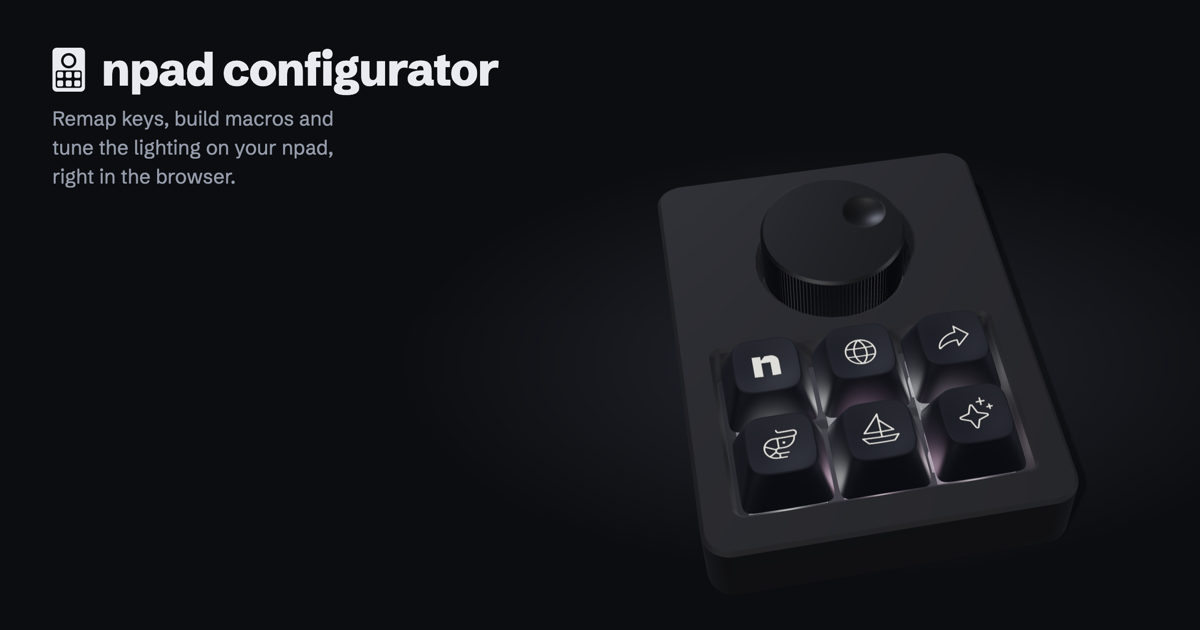
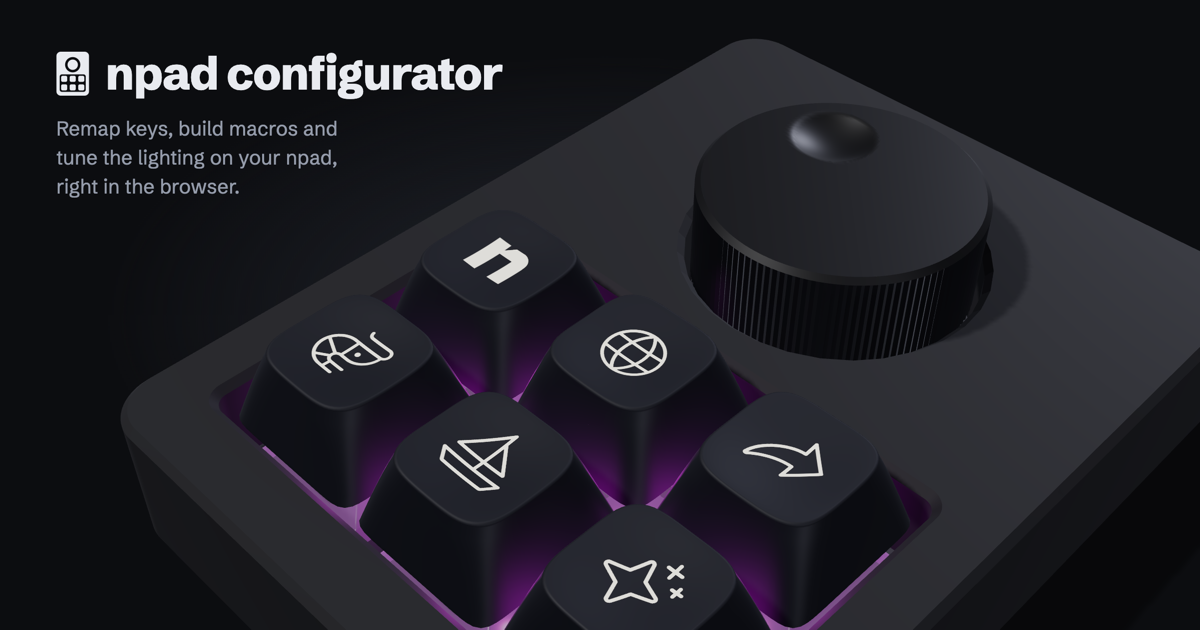
OG image: close-up of the npad, backlit, with the title in the dark corner

diff --git a/index.html b/index.html
@@ -14,7 +14,7 @@
 <meta property="og:image" content="og.png">
 <meta property="og:image:width" content="1200">
 <meta property="og:image:height" content="630">
-<meta property="og:image:alt" content="A 3D render of the npad macropad beside the title npad configurator">
+<meta property="og:image:alt" content="A close-up 3D render of the npad macropad, backlit pink, with the title npad configurator">
 <meta name="twitter:card" content="summary_large_image">
 <meta name="twitter:title" content="npad configurator">
 <meta name="twitter:description" content="Remap keys, build macros and tune the lighting on your npad, right in the browser.">
